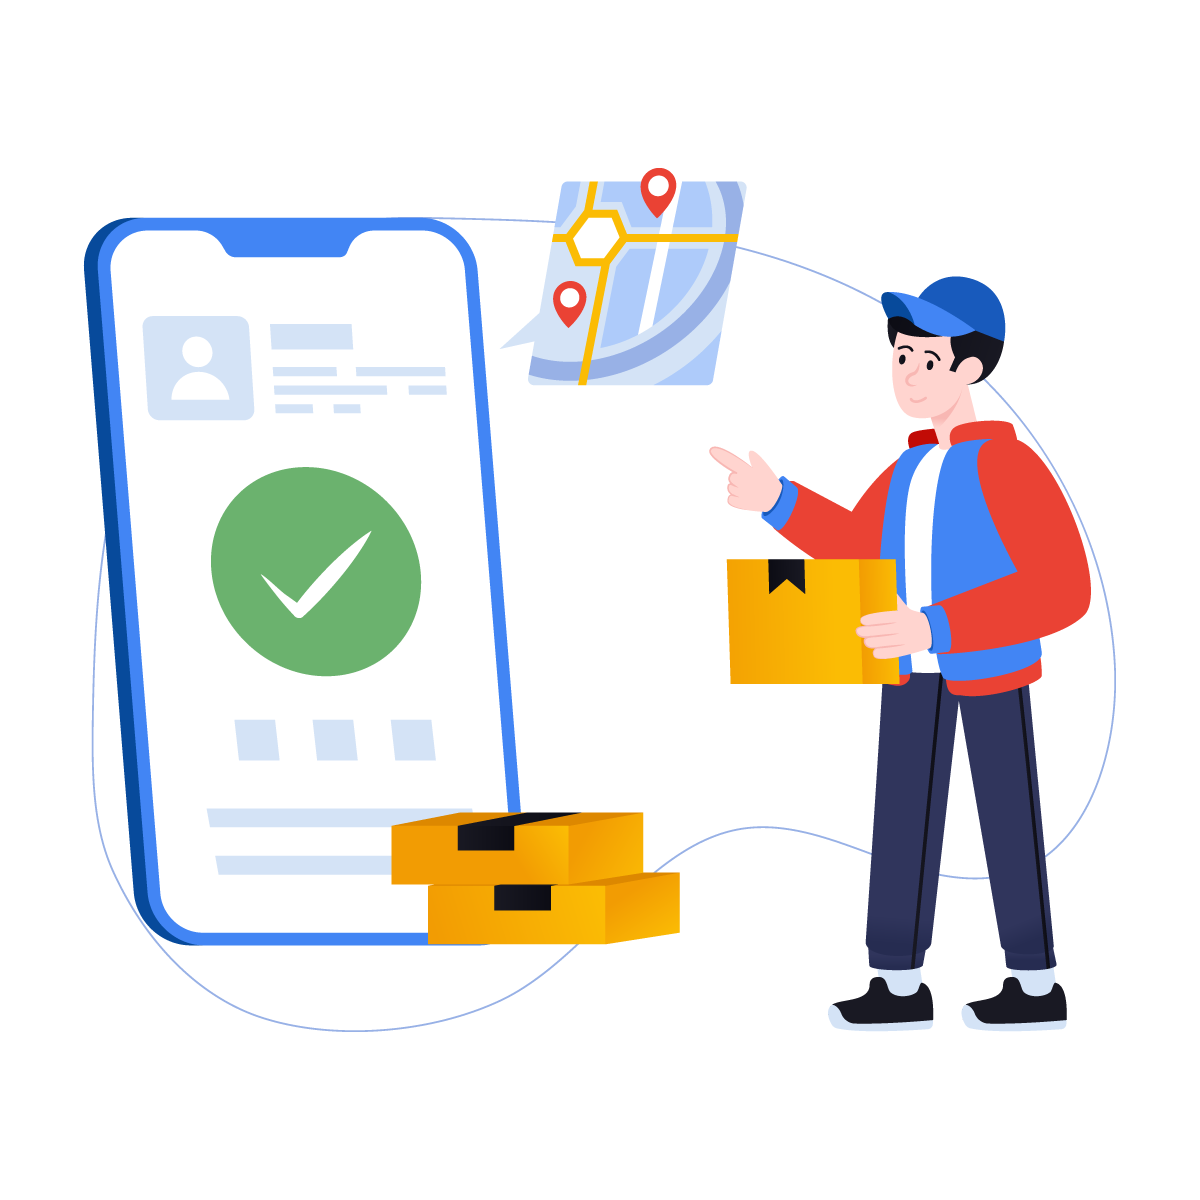
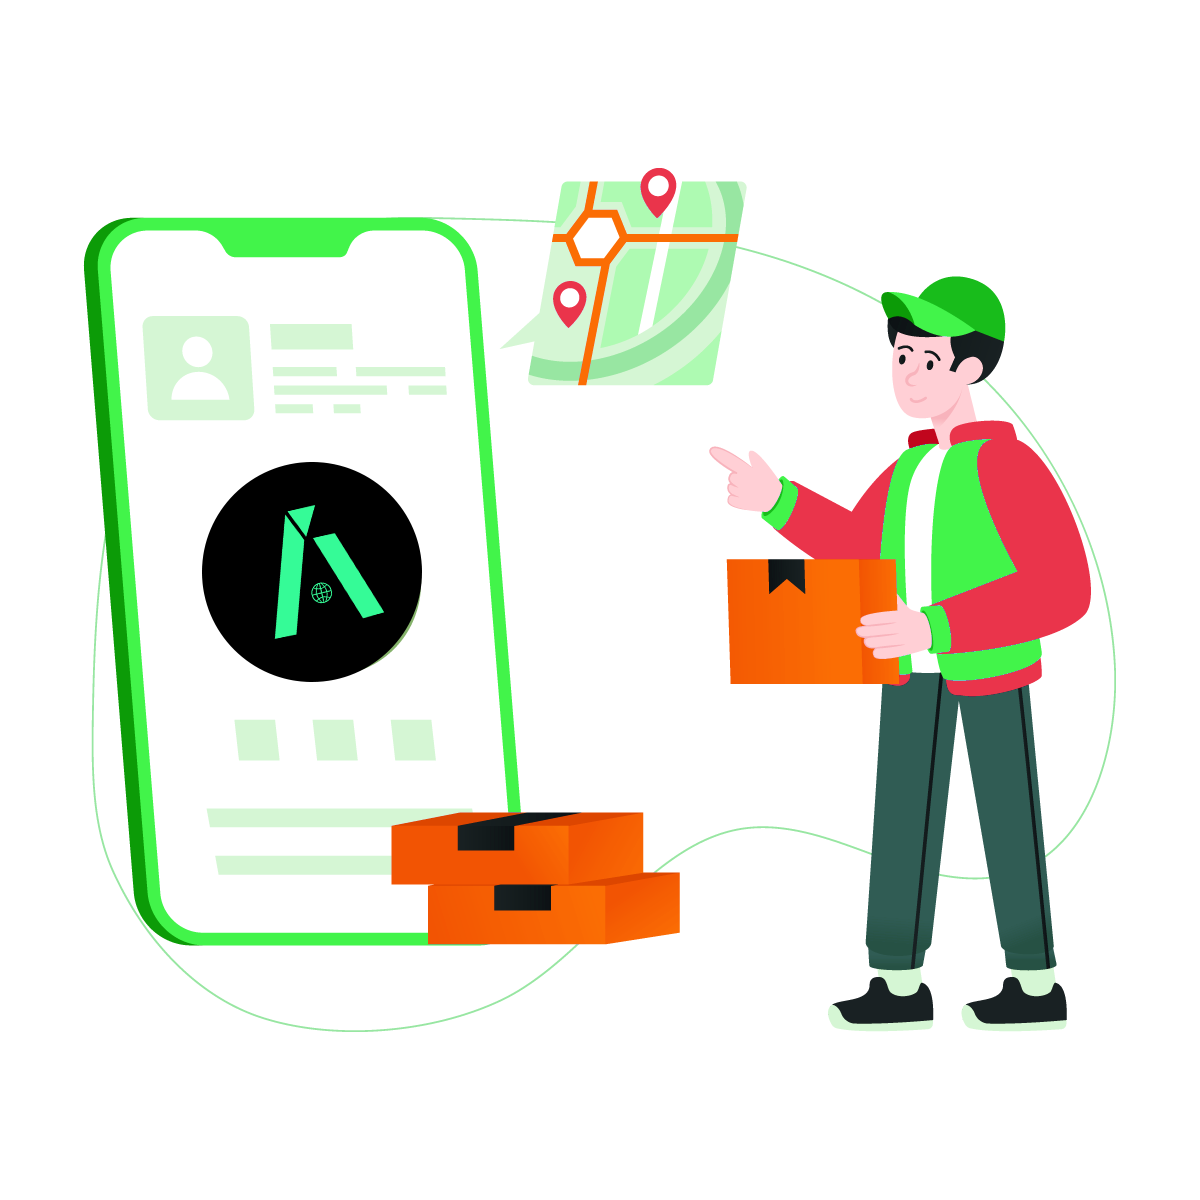
Second commit

diff --git a/src/App.css b/src/App.css
@@ -21,7 +21,7 @@ h5,
 h6,
 p{
     margin: 0;
-    color: #ffffff
+    color: #000000
 }
 
 :root{
@@ -105,6 +105,7 @@ h2{
     font-size:2.5rem;
     font-weight: 700;
     line-height: 58px;
+    color: #00ff00;
 }
 /* Heading 3 */
 h3{
@@ -133,7 +134,7 @@ h3{
 
 /* About Us */
 .section-title{
-    color: var(--white);
+    color: var(--bg-shade);
     font-size: 21px;
     text-align: center;
     font-style: normal;
@@ -141,12 +142,13 @@ h3{
     line-height: 32px;
     display: flex;
     align-items: flex-start;
+    padding-top: 25px;
 }
 
 /* Contact Us */
 .sub-title{
-    color:var(--heading-color);
-    font-size:16px;
+    color:var(--black);
+    font-size:1.3rem;
     font-weight: 600;
     line-height: 24px;
 }
@@ -159,8 +161,9 @@ h3{
     align-items: center;
     padding: 1.5rem 2rem;
     background-color: #080322;
-    box-shadow: 0px 5.333px 80px 0 rgba(0, 0, 0, 0.1);
+    box-shadow: 0px 5.333px 20px 0 rgba(167, 165, 165, 0.1);
     position: fixed;
+    z-index: 1;
     top:0;
     left: 0;
     right:0;
@@ -197,14 +200,33 @@ h3{
 }
 
 /* Hero Section style */
+.section-title-atua{
+    color: var(--white);
+    font-size: 2rem;
+    text-align: center;
+    font-style: normal;
+    font-weight: 600;
+    line-height: 32px;
+    display: flex;
+    align-items: flex-start;
+    position:relative;
+    animation: atua-title;
+    animation-duration: 3s;
+}
+
+.anime{
+    position:relative;
+    animation: atua-title;
+    animation-duration: 5s;
+}
 .hero-section{
     display: grid;
     grid-template-columns: repeat(2, 1fr);
-    padding: 133.33px 85.333px 133.333px;
+    padding: 133.33px 85.333px 100.333px;
     align-items: center;
     justify-content: space-between;
     gap: 32px;
-    background-color: var(--bg-shade);
+    background: url(../public/img/Atua\ Background.png) center/cover no-repeat;
 }
 .hero-section-content-box{
     display: flex;
@@ -218,8 +240,14 @@ h3{
     align-items: flex-start;
     gap: 21.333px;
 }
-.hero-section-content-box > button {
-    margin-top: 21.333px;
+.hero-section-btn {
+    margin-top: 17.333px;
+    position:relative;
+    opacity: 0;
+    animation: show;
+    animation-duration: 2s;
+    animation-delay: 4s;
+    animation-fill-mode: forwards;
 }
 
 .hero-section-title-color{
@@ -241,12 +269,24 @@ h3{
 .hero-section-img > img{
     width: 100%;
     height: 100%;
+    animation: appear 6s ;
 }
 /* Hero section style ends */
+
+/* Section Description */
+.section-description{
+    text-align: center;
+    color: var(--black);
+    font-size: 24px;
+    font-weight: 400;
+    line-height: 36px;
+}
+/* Section Description Ends */
 
 /* Services */
 .service-section {
     display: grid;
+    background: var(--white);
     padding: 133.333px 85.3px;
     align-items: center;
     gap:114.6px;
@@ -257,6 +297,12 @@ h3{
     height: 100%;
 
 }
+.card{
+    background: rgb(243, 243, 245);
+    padding:20px 40px;
+    border-radius: 15%;
+    box-shadow: 3px 9.333px 20px 0 rgba(0, 0, 0, 0.2);
+}
 /* Services Ends */
 
 /* About Us */
@@ -266,11 +312,17 @@ h3{
     align-items: center;
     gap:114.6px;
     grid-template-columns: repeat(2, 1fr);
-    background-color: var(--bg-shade);
+    background: rgb(243, 243, 245);
 }
 .about-section-img > img{
     width: 100%;
     height: 100%;
+}
+.card-about{
+    background: var(--white);
+    padding:20px 40px;
+    border-radius: 15%;
+    box-shadow: 3px 9.333px 20px 0 rgba(0, 0, 0, 0.2);
 }
 /* About Us Ends */
 
@@ -442,6 +494,7 @@ input[type='checkbox']{
         display: none;
     }
     .hero-section{
+        background: url(../public/img/Atua\ Background\ 900px.png) center/cover no-repeat;
         display: flex;
         flex-direction: column-reverse;
         padding-bottom: 50px;
@@ -510,15 +563,22 @@ input[type='checkbox']{
         padding-right: 50px;
     }
     .service-section {
+        display:flex;
+        flex-direction: column;
         padding-left: 50px;
         padding-right: 50px;
         align-items: center;
     }
     .about-section{
+        display: flex;
+        flex-direction: column;
         padding-top: 80px;
         padding-bottom: 0;
         padding-left: 50px;
         padding-right: 50px;
+    }
+    .about-section-img{
+        padding-bottom: 25px;
     }
     .contact-section{
         padding-left: 50px;
@@ -606,3 +666,39 @@ input[type='checkbox']{
     }
 }
 
+@keyframes appear {
+    0%{
+        opacity: 0;
+        transform: scale(0);
+    }
+    
+    100%{
+        opacity: 1;
+        transform: scale(1);
+    }
+    
+}
+
+@keyframes show {
+    0%{
+        opacity: 0;
+        left: - 1000px;
+    }
+
+    100%{
+        opacity: 1;
+        left:0px;
+    }
+    
+}
+
+@keyframes atua-title {
+    0%{
+        left:-1000px;
+    }
+
+    100%{
+        left:0px;
+    }
+    
+}

diff --git a/src/Pages/Home/About.jsx b/src/Pages/Home/About.jsx
@@ -11,17 +11,20 @@ function About() {
                 <h1>
                     About Us
                 </h1>
-                <p className='hero-section-description'>
-                    Atua is a company dedicated to making our users comfortable to send and receive packages in record time. The idea was to make the transition of packages as seamless as possibe while creating an avenue for users who register as couriers, to make money.
-                </p>
-                <p className='hero-section-description'>
-                    We service as a medium to bring together people who want their packages received or sent, and people who are willing to deliver those packages.
-                    Our aim to make our users have a sense security while using our platform thus, why we gather information on registered users in other to make the other party feel safe. 
-                </p>
+                <div className='card-about'>
+                    <p className='section-description'>
+                        Atua is a company dedicated to making our users comfortable to send and receive packages in record time. The idea was to make the transition of packages as seamless as possibe while creating an avenue for users who register as couriers, to make money.
+                    </p>
+                    <p className='section-description'>
+                        We serve as a medium to bring together people who want their packages sent or received, and people who are willing to deliver those packages.
+                        Our aim is to make our users have a sense of security while using our platform thus, why we gather information on registered users in other to make the other party feel safe. 
+                    </p>
+                </div>
+                
             </div>
         </div>
         <div className='about-section-img'>
-            <img src='../img/AboutUs.jpg' alt='About Us'/>
+            <img src='../img/Ordering with Atua from Phone.png' alt='About Us'/>
         </div>
     </section>
   )

diff --git a/src/Pages/Home/Services.jsx b/src/Pages/Home/Services.jsx
@@ -10,11 +10,14 @@ function Services() {
             <div className='hero-section-content'>
                 <p className='section-title'>Services</p>
                 <h1>Our Services</h1>
-                <p className='hero-section-description'>Our range of services are unending. We offer a platform for packages to be sent from one point to another. It does not matter the size of item/package that needs to be sent, it does not matter the time you want to sent it, there will be users always ready to deliver your package.
-                </p>
-                <p className='hero-section-description'>
+                <div className='card'>
+                  <p className='section-description'>Our range of services are unending. We offer a platform for packages to be sent/delivered from one point to another. It does not matter the size of item/package that needs to be sent; it does not matter the time you want it sent, there will be users always ready to deliver your package.
+                  </p>
+                  <p className='section-description'>
                   Furthermore, we offer our users a chance to be couriers and make money for themselves at any given time. You are given to opportunity to have a full time job or part time job.
-                </p>
+                  </p>
+                </div>
+                
             </div>
         </div>
     </section>

diff --git a/src/Pages/Home/HeroSection.jsx b/src/Pages/Home/HeroSection.jsx
@@ -6,8 +6,8 @@ function HeroSection() {
     <section id='heroSection' className='hero-section'>
       <div className='hero-section-content-box'>
         <div className='hero-section-content'>
-          <p className='section-title'>Welcome to Atua</p>
-          <div className='hero-section-title'>
+          <p className='section-title-atua'>Welcome to Atua</p>
+          <div className='hero-section-title anime'>
             <h1 className='hero-section-title-color'>
               Send A Package
             </h1>
@@ -30,13 +30,13 @@ function HeroSection() {
         offset={-70} 
         duration={500}
         to='contact'
-        className='btn btn-primary'>
+        className='btn btn-primary hero-section-btn'>
             Contact Us
         </Link>
 
       </div>
       <div className='hero-section-img'>
-        <img src="./img/bikeDeliveryguy.jpg" alt="Delivery Atua" />
+        <img src="./img/Only Atua Phone Slanted.png" alt="Delivery Atua" width='10px' />
       </div>
     </section>
   )

diff --git a/src/Pages/Home/Navbar.jsx b/src/Pages/Home/Navbar.jsx
@@ -59,7 +59,7 @@ function Navbar() {
             duration={500}
             to='heroSection'
             className='navbar-content'>
-                <img src="./img/Atua Just Logo square without background.png" alt="Logo" width="60rem" />
+                <img src="./img/Atua logo square transparent.png" alt="Logo" width="60rem" />
             </Link>
             
         </div>
@@ -99,7 +99,7 @@ function Navbar() {
                     onClick={closeMenu} activeClass='navbar-active-content' 
                     spy={true} 
                     smooth={true} 
-                    offset={10} 
+                    offset={-30} 
                     duration={500}
                     to='aboutUs'
                     className='navbar-content'>
